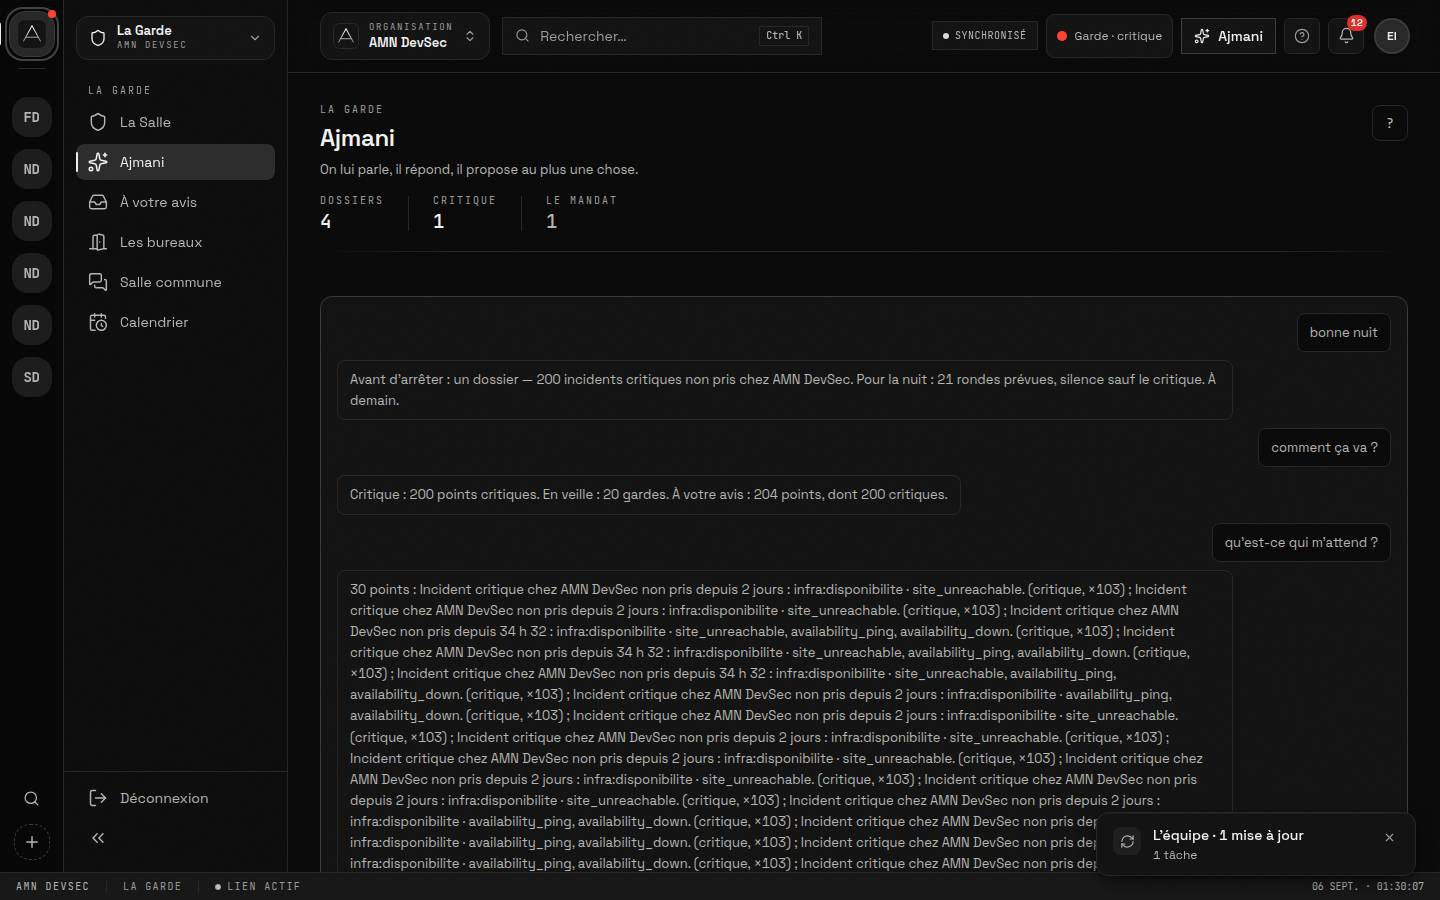
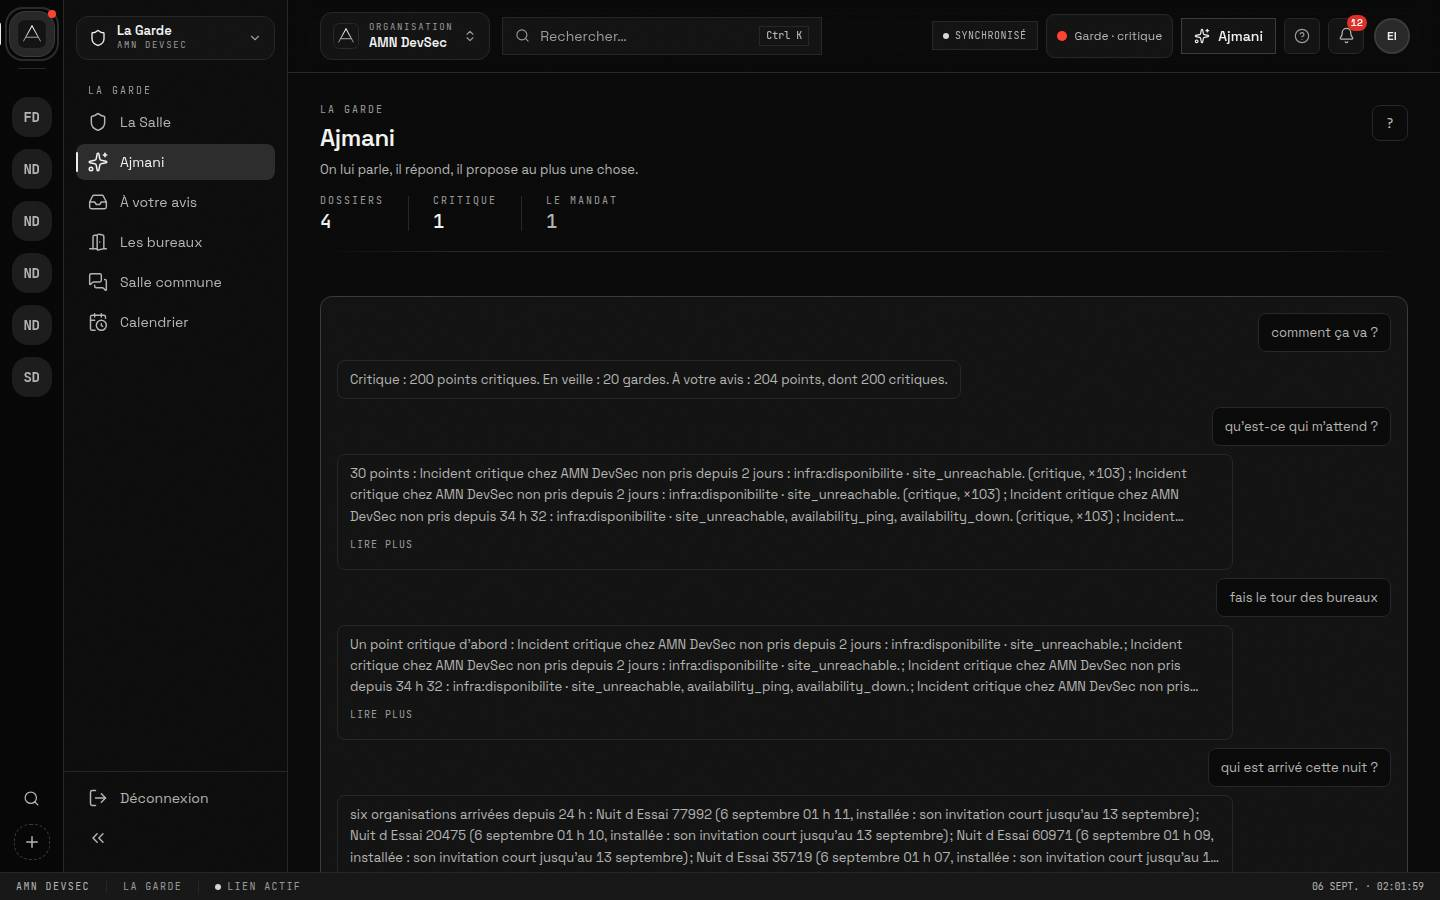
L'Automatique, Bloc 6 (poste) : « Mot de passe oublié » passe par le courrier quand le serveur l'a, et le dit ; l'écran du lien de réinitialisation
- forgotPassword (web et Electron) : le courrier du serveur d'abord, le prestataire prévenu sinon ; l'écran dit par quel chemin c'est passé
- Écran public #/reinitialiser?token= (jeton retiré de l'adresse, huit caractères, un seul usage), routes dans les deux éditions, i18n FR/EN
- Ajmani : une vieille réponse longue de l'historique se relit pliée

Claude-Session: https://claude.ai/code/session_01BEf9qY21FAUuZ4ogxRY3s2

diff --git a/src/screens/ReinitialisationScreen.tsx b/src/screens/ReinitialisationScreen.tsx
@@ -1,0 +1,112 @@
+import React, { useEffect, useMemo, useState } from 'react';
+import { useNavigate } from 'react-router-dom';
+import { motion } from 'framer-motion';
+import { Check, Eye, EyeOff, KeyRound, Loader2 } from 'lucide-react';
+import { bridge } from '../lib/bridge';
+import { cleanErrorMessage } from '../lib/errorMessage';
+import { Logo } from '../components/Logo';
+import { useLangue } from '../i18n';
+
+/**
+ * CHOISIR UN NOUVEAU MOT DE PASSE — le lien reçu par courriel (L'Automatique, Bloc 6).
+ *
+ * Le serveur envoie `#/reinitialiser?token=…` quand le courrier est en ligne
+ * (docs/EMAILS.md, amn-api). Même discipline que l'invitation : le jeton est lu
+ * une fois puis retiré de l'adresse ; un jeton absent, inconnu, expiré ou déjà
+ * servi produit la même réponse, et l'écran dit ce qui est vrai — « ce lien ne
+ * vaut plus » — sans deviner pourquoi.
+ */
+const MIN_LENGTH = 8;
+
+export function ReinitialisationScreen() {
+  const { t } = useLangue();
+  const navigate = useNavigate();
+  const [token, setToken] = useState('');
+  const [password, setPassword] = useState('');
+  const [confirmation, setConfirmation] = useState('');
+  const [visible, setVisible] = useState(false);
+  const [busy, setBusy] = useState(false);
+  const [error, setError] = useState<string | null>(null);
+  const [done, setDone] = useState(false);
+
+  useEffect(() => {
+    const hash = window.location.hash;
+    const query = hash.includes('?') ? hash.slice(hash.indexOf('?') + 1) : '';
+    const found = new URLSearchParams(query).get('token') ?? '';
+    if (found) {
+      setToken(found.trim());
+      window.history.replaceState(null, '', `${window.location.pathname}#/reinitialiser`);
+    }
+  }, []);
+
+  const tooShort = password.length > 0 && password.length < MIN_LENGTH;
+  const mismatch = confirmation.length > 0 && confirmation !== password;
+  const ready = useMemo(() => token.trim().length > 0 && password.length >= MIN_LENGTH && confirmation === password, [token, password, confirmation]);
+
+  const submit = async (event: React.FormEvent) => {
+    event.preventDefault();
+    if (!ready || busy) return;
+    setBusy(true);
+    setError(null);
+    try {
+      await bridge().remote.resetPassword(token.trim(), password);
+      setDone(true);
+      window.setTimeout(() => navigate('/login', { replace: true }), 1200);
+    } catch (err) {
+      setError(cleanErrorMessage(err, t('reinit.erreur')));
+      setBusy(false);
+    }
+  };
+
+  return (
+    <div className="flex min-h-dvh items-center justify-center bg-bg p-4">
+      <motion.div initial={{ opacity: 0, y: 12 }} animate={{ opacity: 1, y: 0 }} transition={{ duration: 0.28 }} className="w-full max-w-md border border-border bg-surface p-6 sm:p-8">
+        <Logo className="h-7 w-auto" />
+        {done ? (
+          <div className="mt-8 flex flex-col items-center text-center">
+            <span className="flex h-12 w-12 items-center justify-center border border-accent text-accent"><Check size={24} strokeWidth={2.25} /></span>
+            <h1 className="mt-4 text-xl font-bold tracking-tight text-text-primary">{t('reinit.fait')}</h1>
+            <p className="mt-1 text-sm text-text-secondary">{t('reinit.faitSuite')}</p>
+          </div>
+        ) : (
+          <form onSubmit={submit} className="mt-8">
+            <div className="flex items-center gap-2 font-mono text-[10px] uppercase tracking-[0.2em] text-text-muted"><KeyRound size={13} strokeWidth={2} />{t('reinit.surtitre')}</div>
+            <h1 className="mt-2 text-2xl font-bold tracking-tight text-text-primary">{t('reinit.titre')}</h1>
+            <p className="mt-2 text-sm leading-relaxed text-text-secondary">{t('reinit.aide')}</p>
+            {!token && (
+              <label className="mt-6 block">
+                <span className="mb-1 block font-mono text-[10px] uppercase tracking-widest text-text-muted">{t('reinit.code')}</span>
+                <input value={token} onChange={(e) => setToken(e.target.value)} autoFocus aria-label={t('reinit.code')} className="input-focus min-h-12 w-full border border-border bg-bg px-3 text-sm text-text-primary outline-none" />
+              </label>
+            )}
+            <label className="mt-5 block">
+              <span className="mb-1 block font-mono text-[10px] uppercase tracking-widest text-text-muted">{t('reinit.motDePasse')}</span>
+              <div className="flex min-h-12 items-center border border-border bg-bg px-3">
+                <input type={visible ? 'text' : 'password'} value={password} onChange={(e) => setPassword(e.target.value)} autoFocus={Boolean(token)} autoComplete="new-password" aria-label={t('reinit.motDePasse')} className="min-w-0 flex-1 bg-transparent text-sm text-text-primary outline-none" />
+                <button type="button" onClick={() => setVisible((v) => !v)} aria-label={visible ? t('reinit.masquer') : t('reinit.afficher')} className="ml-2 flex h-8 w-8 flex-shrink-0 items-center justify-center text-text-muted transition-colors hover:text-text-primary">
+                  {visible ? <EyeOff size={15} strokeWidth={1.75} /> : <Eye size={15} strokeWidth={1.75} />}
+                </button>
+              </div>
+              <span className={`mt-1 block font-mono text-[10px] uppercase tracking-widest ${tooShort ? 'text-danger' : 'text-text-muted'}`}>{t('reinit.minimum', { n: MIN_LENGTH })}</span>
+            </label>
+            <label className="mt-4 block">
+              <span className="mb-1 block font-mono text-[10px] uppercase tracking-widest text-text-muted">{t('reinit.confirmation')}</span>
+              <input type={visible ? 'text' : 'password'} value={confirmation} onChange={(e) => setConfirmation(e.target.value)} autoComplete="new-password" aria-label={t('reinit.confirmation')} className="input-focus min-h-12 w-full border border-border bg-bg px-3 text-sm text-text-primary outline-none" />
+              {mismatch && <span className="mt-1 block font-mono text-[10px] uppercase tracking-widest text-danger">{t('reinit.differe')}</span>}
+            </label>
+            {error && (
+              <div role="alert" className="mt-4 border border-danger/40 bg-danger-muted px-3 py-2">
+                <p className="text-xs leading-relaxed text-danger">{error}</p>
+                <p className="mt-1 text-xs leading-relaxed text-text-secondary">{t('reinit.erreurSuite')}</p>
+              </div>
+            )}
+            <button type="submit" disabled={!ready || busy} className="mt-6 flex min-h-12 w-full items-center justify-center gap-2 bg-accent text-sm font-semibold text-bg transition-colors hover:bg-accent-hover disabled:opacity-40">
+              {busy && <Loader2 size={16} className="animate-spin" />}{t('reinit.valider')}
+            </button>
+            <button type="button" onClick={() => navigate('/login', { replace: true })} className="mt-3 flex min-h-11 w-full items-center justify-center text-xs text-text-muted transition-colors hover:text-text-secondary">{t('reinit.retour')}</button>
+          </form>
+        )}
+      </motion.div>
+    </div>
+  );
+}

diff --git a/src/screens/garde/GardeAjmaniScreen.tsx b/src/screens/garde/GardeAjmaniScreen.tsx
@@ -3,6 +3,7 @@ import { Link } from 'react-router-dom';
 import { motion, useReducedMotion } from 'framer-motion';
 import { ScreenHeader } from '../../components/ScreenHeader';
 import { PoulsBadge } from '../../components/garde/GardeUi';
+import { Depliable } from '../../components/Depliable';
 import { garde } from '../../lib/garde';
 import { useLangue } from '../../i18n';
 import { NOM_DU_CHEF } from '@edition/ajmani';
@@ -124,7 +125,10 @@ export function GardeAjmaniScreen() {
         {acc && (
           <ol className="flex flex-col gap-2">
             {historique.map((m, i) => (
-              <li key={`h${i}`} className={`max-w-[85%] whitespace-pre-line rounded-lg border px-3 py-2 text-[13px] leading-relaxed ${m.de === 'moi' ? 'self-end border-border bg-bg text-text-secondary' : 'self-start border-border bg-surface text-text-secondary'}`} title={m.at ? relativeTime(m.at) : undefined}>{m.texte}</li>
+              /* L'historique se relit plié : une vieille réponse longue reste disponible, elle ne fait plus un pavé au-dessus de la conversation. */
+              <li key={`h${i}`} className={`max-w-[85%] rounded-lg border px-3 py-2 text-[13px] leading-relaxed ${m.de === 'moi' ? 'self-end border-border bg-bg text-text-secondary' : 'self-start border-border bg-surface text-text-secondary'}`} title={m.at ? relativeTime(m.at) : undefined}>
+                {m.de === 'chef' ? <Depliable lignes={3}><span className="block whitespace-pre-line">{m.texte}</span></Depliable> : <span className="block whitespace-pre-line">{m.texte}</span>}
+              </li>
             ))}
             <li className="max-w-[85%] self-start rounded-lg border border-border-strong bg-bg px-3 py-2.5 text-[13px] leading-relaxed text-text-primary">
               <span className="flex flex-wrap items-center gap-2 pb-1"><PoulsBadge pouls={acc.pouls} compact />{acc.silence.actif && <span className="font-mono text-[10px] uppercase tracking-widest text-warning">{t('garde.chef.silenceActif')}</span>}</span>

diff --git a/src/i18n/fr.ts b/src/i18n/fr.ts
@@ -43,6 +43,23 @@ export const fr: Dictionnaire = {
   'connexion.oublie.envoyer': 'Prévenir mon prestataire',
   'connexion.oublie.annuler': 'Retour à la connexion',
   'connexion.oublie.fait': 'Votre prestataire a été prévenu — vous recevrez un mot de passe temporaire.',
+  'connexion.oublie.faitCourriel': 'Si cette adresse a un compte, un courriel vient de partir avec un lien valable une heure. Regardez aussi les indésirables.',
+  'reinit.surtitre': 'Nouveau mot de passe',
+  'reinit.titre': 'Choisissez votre mot de passe',
+  'reinit.aide': 'Le lien reçu par courriel vaut une heure et ne sert qu’une fois. Personne d’autre que vous ne verra ce mot de passe.',
+  'reinit.code': 'Code reçu',
+  'reinit.motDePasse': 'Mot de passe',
+  'reinit.confirmation': 'Confirmation',
+  'reinit.minimum': '{n} caractères minimum',
+  'reinit.differe': 'Les deux saisies diffèrent',
+  'reinit.afficher': 'Afficher le mot de passe',
+  'reinit.masquer': 'Masquer le mot de passe',
+  'reinit.valider': 'Enregistrer mon mot de passe',
+  'reinit.retour': 'Retour à la connexion',
+  'reinit.fait': 'Votre mot de passe est enregistré',
+  'reinit.faitSuite': 'Retour à la connexion…',
+  'reinit.erreur': 'Ce lien ne vaut plus.',
+  'reinit.erreurSuite': 'Un lien ne sert qu’une fois et expire au bout d’une heure. Demandez-en un nouveau depuis « Mot de passe oublié ».',
 
   /* ── Rideau de bienvenue ────────────────────────────────────────────── */
   'bienvenue.titre': 'Bienvenue sur {produit}',

diff --git a/src/screens/LoginScreen.tsx b/src/screens/LoginScreen.tsx
@@ -60,6 +60,7 @@ export function LoginScreen() {
     la même que l'adresse existe ou non : personne n'énumère des comptes ici.
   */
   const [oublie, setOublie] = useState<'ferme' | 'ouvert' | 'envoi' | 'fait'>('ferme');
+  const [oublieChemin, setOublieChemin] = useState<'envoye' | 'manuel'>('manuel');
   const [phase, setPhase] = useState<Phase>('idle');
   const [error, setError] = useState<string | null>(null);
   /*
@@ -370,7 +371,8 @@ export function LoginScreen() {
             if (oublie === 'envoi' || oublie === 'fait') return;
             setOublie('envoi');
             try {
-              await bridge().remote.forgotPassword(email.trim());
+              const r = await bridge().remote.forgotPassword(email.trim());
+              setOublieChemin(r.courrier);
             } catch {
               /* la réponse est la même quoi qu'il arrive : le message ci-dessous vaut */
             }
@@ -380,7 +382,7 @@ export function LoginScreen() {
         >
           <p className="font-mono text-[10px] uppercase tracking-[0.2em] text-text-muted">{t('connexion.oublie.titre')}</p>
           {oublie === 'fait' ? (
-            <p className="mt-3 text-sm leading-relaxed text-text-primary">{t('connexion.oublie.fait')}</p>
+            <p className="mt-3 text-sm leading-relaxed text-text-primary" data-oublie={oublieChemin}>{t(oublieChemin === 'envoye' ? 'connexion.oublie.faitCourriel' : 'connexion.oublie.fait')}</p>
           ) : (
             <>
               <p className="mt-3 text-sm leading-relaxed text-text-secondary">{t('connexion.oublie.consigne')}</p>

diff --git a/src/i18n/en.ts b/src/i18n/en.ts
@@ -50,6 +50,23 @@ export const en = {
     'Enter your email address. Your provider will be notified and will hand you a temporary password.',
   'connexion.oublie.envoyer': 'Notify my provider',
   'connexion.oublie.annuler': 'Back to sign in',
+  'connexion.oublie.faitCourriel': 'If this address has an account, an email has just been sent with a link valid for one hour. Check your spam folder too.',
+  'reinit.surtitre': 'New password',
+  'reinit.titre': 'Choose your password',
+  'reinit.aide': 'The link you received by email is valid for one hour and works once. Nobody but you will see this password.',
+  'reinit.code': 'Code received',
+  'reinit.motDePasse': 'Password',
+  'reinit.confirmation': 'Confirmation',
+  'reinit.minimum': '{n} characters minimum',
+  'reinit.differe': 'The two entries differ',
+  'reinit.afficher': 'Show password',
+  'reinit.masquer': 'Hide password',
+  'reinit.valider': 'Save my password',
+  'reinit.retour': 'Back to sign-in',
+  'reinit.fait': 'Your password is saved',
+  'reinit.faitSuite': 'Back to sign-in…',
+  'reinit.erreur': 'This link is no longer valid.',
+  'reinit.erreurSuite': 'A link works once and expires after one hour. Ask for a new one from “Forgot password”.',
   'connexion.oublie.fait': 'Your provider has been notified — you will receive a temporary password.',
 
   /* ── Welcome curtain ────────────────────────────────────────────────── */

diff --git a/src/shared/api.ts b/src/shared/api.ts
@@ -2889,11 +2889,14 @@ export interface AmnBridge {
 
     /* --- Sans session : mot de passe oublié, lien de bienvenue (Blocs 2, 3) --- */
     /**
-     * « Mot de passe oublié » : prévient le prestataire. La réponse est la
-     * même que l'adresse existe ou non — amn-api n'a pas de transport mail,
-     * rien n'est envoyé, et c'est dit honnêtement.
+     * « Mot de passe oublié ». Le courrier du serveur d'abord (L'Automatique,
+     * Bloc 6) : en ligne, un lien part par courriel (`courrier: 'envoye'`).
+     * Sinon le prestataire est prévenu et remet un mot de passe temporaire
+     * (`'manuel'`). La réponse est la même que l'adresse existe ou non.
      */
-    forgotPassword(email: string): Promise<{ ok: boolean; message: string }>;
+    forgotPassword(email: string): Promise<{ ok: boolean; courrier: 'envoye' | 'manuel' }>;
+    /** Le lien reçu par courriel : poser le nouveau mot de passe. */
+    resetPassword(token: string, password: string): Promise<{ ok: boolean }>;
     welcome: {
       inspect(token: string): Promise<WelcomePreview>;
       reveal(token: string): Promise<WelcomeAccess>;
@@ -3509,6 +3512,7 @@ export const IPC = {
   remoteSupportList: 'remote:supportList',
   remoteSupportSend: 'remote:supportSend',
   remoteForgotPassword: 'remote:forgotPassword',
+  remoteResetPassword: 'remote:resetPassword',
   remoteWelcomeInspect: 'remote:welcomeInspect',
   remoteWelcomeReveal: 'remote:welcomeReveal',
   remoteWelcomeConfirm: 'remote:welcomeConfirm',

diff --git a/src/lib/bridge.ts b/src/lib/bridge.ts
@@ -799,8 +799,23 @@ function createBrowserRemote(): AmnBridge['remote'] {
         set?.delete(listener);
       };
     },
-    async forgotPassword(email: string) {
-      return publicPost<{ ok: boolean; message: string }>('/v1/support/forgot', { email });
+    /**
+     * Mot de passe oublié. Le courrier du serveur d'abord (L'Automatique, Bloc 6) : s'il est en
+     * ligne, un lien part par courriel. Sinon — serveur d'avant, ou sans clé — le prestataire est
+     * prévenu comme avant et remet un mot de passe temporaire. Rend par quel chemin c'est passé.
+     */
+    async forgotPassword(email: string): Promise<{ ok: boolean; courrier: 'envoye' | 'manuel' }> {
+      try {
+        const r = await publicPost<{ ok: boolean; courrier?: 'envoye' | 'manuel' }>('/v1/courrier/mot-de-passe/oublie', { email });
+        if (r.courrier === 'envoye') return { ok: true, courrier: 'envoye' };
+      } catch {
+        /* serveur d'avant : la route n'existe pas encore */
+      }
+      await publicPost<{ ok: boolean; message: string }>('/v1/support/forgot', { email });
+      return { ok: true, courrier: 'manuel' };
+    },
+    async resetPassword(token: string, password: string) {
+      return publicPost<{ ok: boolean }>('/v1/courrier/mot-de-passe/reinitialiser', { token, password });
     },
     // Appels audio : la signalisation vaut pour toute organisation à plusieurs,
     // donc elle vit dans le pont commun aux deux éditions.

diff --git a/src/main/remoteApi.ts b/src/main/remoteApi.ts
@@ -404,8 +404,20 @@ export class RemoteApiClient {
     return res.request;
   }
 
-  async forgotPassword(email: string): Promise<{ ok: boolean; message: string }> {
-    return this.publicPost<{ ok: boolean; message: string }>('/v1/support/forgot', { email });
+  async forgotPassword(email: string): Promise<{ ok: boolean; courrier: 'envoye' | 'manuel' }> {
+    // Le courrier du serveur d'abord ; un serveur d'avant n'a pas la route, le prestataire est prévenu comme avant.
+    try {
+      const r = await this.publicPost<{ ok: boolean; courrier?: 'envoye' | 'manuel' }>('/v1/courrier/mot-de-passe/oublie', { email });
+      if (r.courrier === 'envoye') return { ok: true, courrier: 'envoye' };
+    } catch {
+      /* route absente : chemin manuel */
+    }
+    await this.publicPost<{ ok: boolean; message: string }>('/v1/support/forgot', { email });
+    return { ok: true, courrier: 'manuel' };
+  }
+
+  async resetPassword(token: string, password: string): Promise<{ ok: boolean }> {
+    return this.publicPost<{ ok: boolean }>('/v1/courrier/mot-de-passe/reinitialiser', { token, password });
   }
 
   async welcomeInspect(token: string): Promise<WelcomePreview> {

diff --git a/src/edition/appRoot.business.tsx b/src/edition/appRoot.business.tsx
@@ -5,6 +5,7 @@ import { ModuleRoute } from '../components/ModuleRoute';
 import { BusinessLayout } from '../business/BusinessLayout';
 import { LoginScreen } from '../screens/LoginScreen';
 import { InvitationScreen } from '../screens/InvitationScreen';
+import { ReinitialisationScreen } from '../screens/ReinitialisationScreen';
 import { WelcomeScreen } from '../screens/WelcomeScreen';
 import { GuestCallScreen } from '../screens/GuestCallScreen';
 import { PublicBookingScreen } from '../screens/PublicBookingScreen';
@@ -101,6 +102,7 @@ export function AppRoot() {
           l'invitée n'a par définition pas encore de compte, donc l'écran
           d'activation ne peut pas vivre derrière une exigence de session. */}
       <Route path="/invitation" element={<InvitationScreen />} />
+      <Route path="/reinitialiser" element={<ReinitialisationScreen />} />
       {/* Le lien de bienvenue (Bloc 2) : publique, comme l'activation — la
           personne n'a pas encore ouvert de session, c'est cette page qui lui
           remet ses accès. */}

diff --git a/src/edition/appRoot.internal.tsx b/src/edition/appRoot.internal.tsx
@@ -6,6 +6,7 @@ import { ModuleRoute } from '../components/ModuleRoute';
 import { AppLayout } from '../components/AppLayout';
 import { LoginScreen } from '../screens/LoginScreen';
 import { InvitationScreen } from '../screens/InvitationScreen';
+import { ReinitialisationScreen } from '../screens/ReinitialisationScreen';
 import { WelcomeScreen } from '../screens/WelcomeScreen';
 import { GuestCallScreen } from '../screens/GuestCallScreen';
 import { PublicBookingScreen } from '../screens/PublicBookingScreen';
@@ -141,6 +142,7 @@ export function AppRoot() {
           l'invitée n'a par définition pas encore de compte, donc l'écran
           d'activation ne peut pas vivre derrière une exigence de session. */}
       <Route path="/invitation" element={<InvitationScreen />} />
+      <Route path="/reinitialiser" element={<ReinitialisationScreen />} />
       {/* Le lien de bienvenue (Bloc 2) : publique, comme l'activation — la
           personne n'a pas encore ouvert de session, c'est cette page qui lui
           remet ses accès. */}

diff --git a/src/main/ipc.ts b/src/main/ipc.ts
@@ -278,6 +278,7 @@ export function registerIpcHandlers(remote: RemoteApiClient, options: IpcOptions
     remote.sendSupportRequest(input),
   );
   ipcMain.handle(IPC.remoteForgotPassword, (_event, email: string) => remote.forgotPassword(email));
+  ipcMain.handle(IPC.remoteResetPassword, (_event, token: string, password: string) => remote.resetPassword(token, password));
   ipcMain.handle(IPC.remoteWelcomeInspect, (_event, token: string) => remote.welcomeInspect(token));
   ipcMain.handle(IPC.remoteWelcomeReveal, (_event, token: string) => remote.welcomeReveal(token));
   ipcMain.handle(IPC.remoteWelcomeConfirm, (_event, token: string) => remote.welcomeConfirm(token));

diff --git a/src/preload.ts b/src/preload.ts
@@ -182,6 +182,7 @@ const bridge: AmnBridge = {
       send: (input) => ipcRenderer.invoke(IPC.remoteSupportSend, input),
     },
     forgotPassword: (email: string) => ipcRenderer.invoke(IPC.remoteForgotPassword, email),
+    resetPassword: (token: string, password: string) => ipcRenderer.invoke(IPC.remoteResetPassword, token, password),
     onSupportAnswered: (callback: (request: SupportRequest) => void) => {
       const listener = (_event: Electron.IpcRendererEvent, request: SupportRequest) => callback(request);
       ipcRenderer.on(IPC.remoteSupportAnsweredPush, listener);
